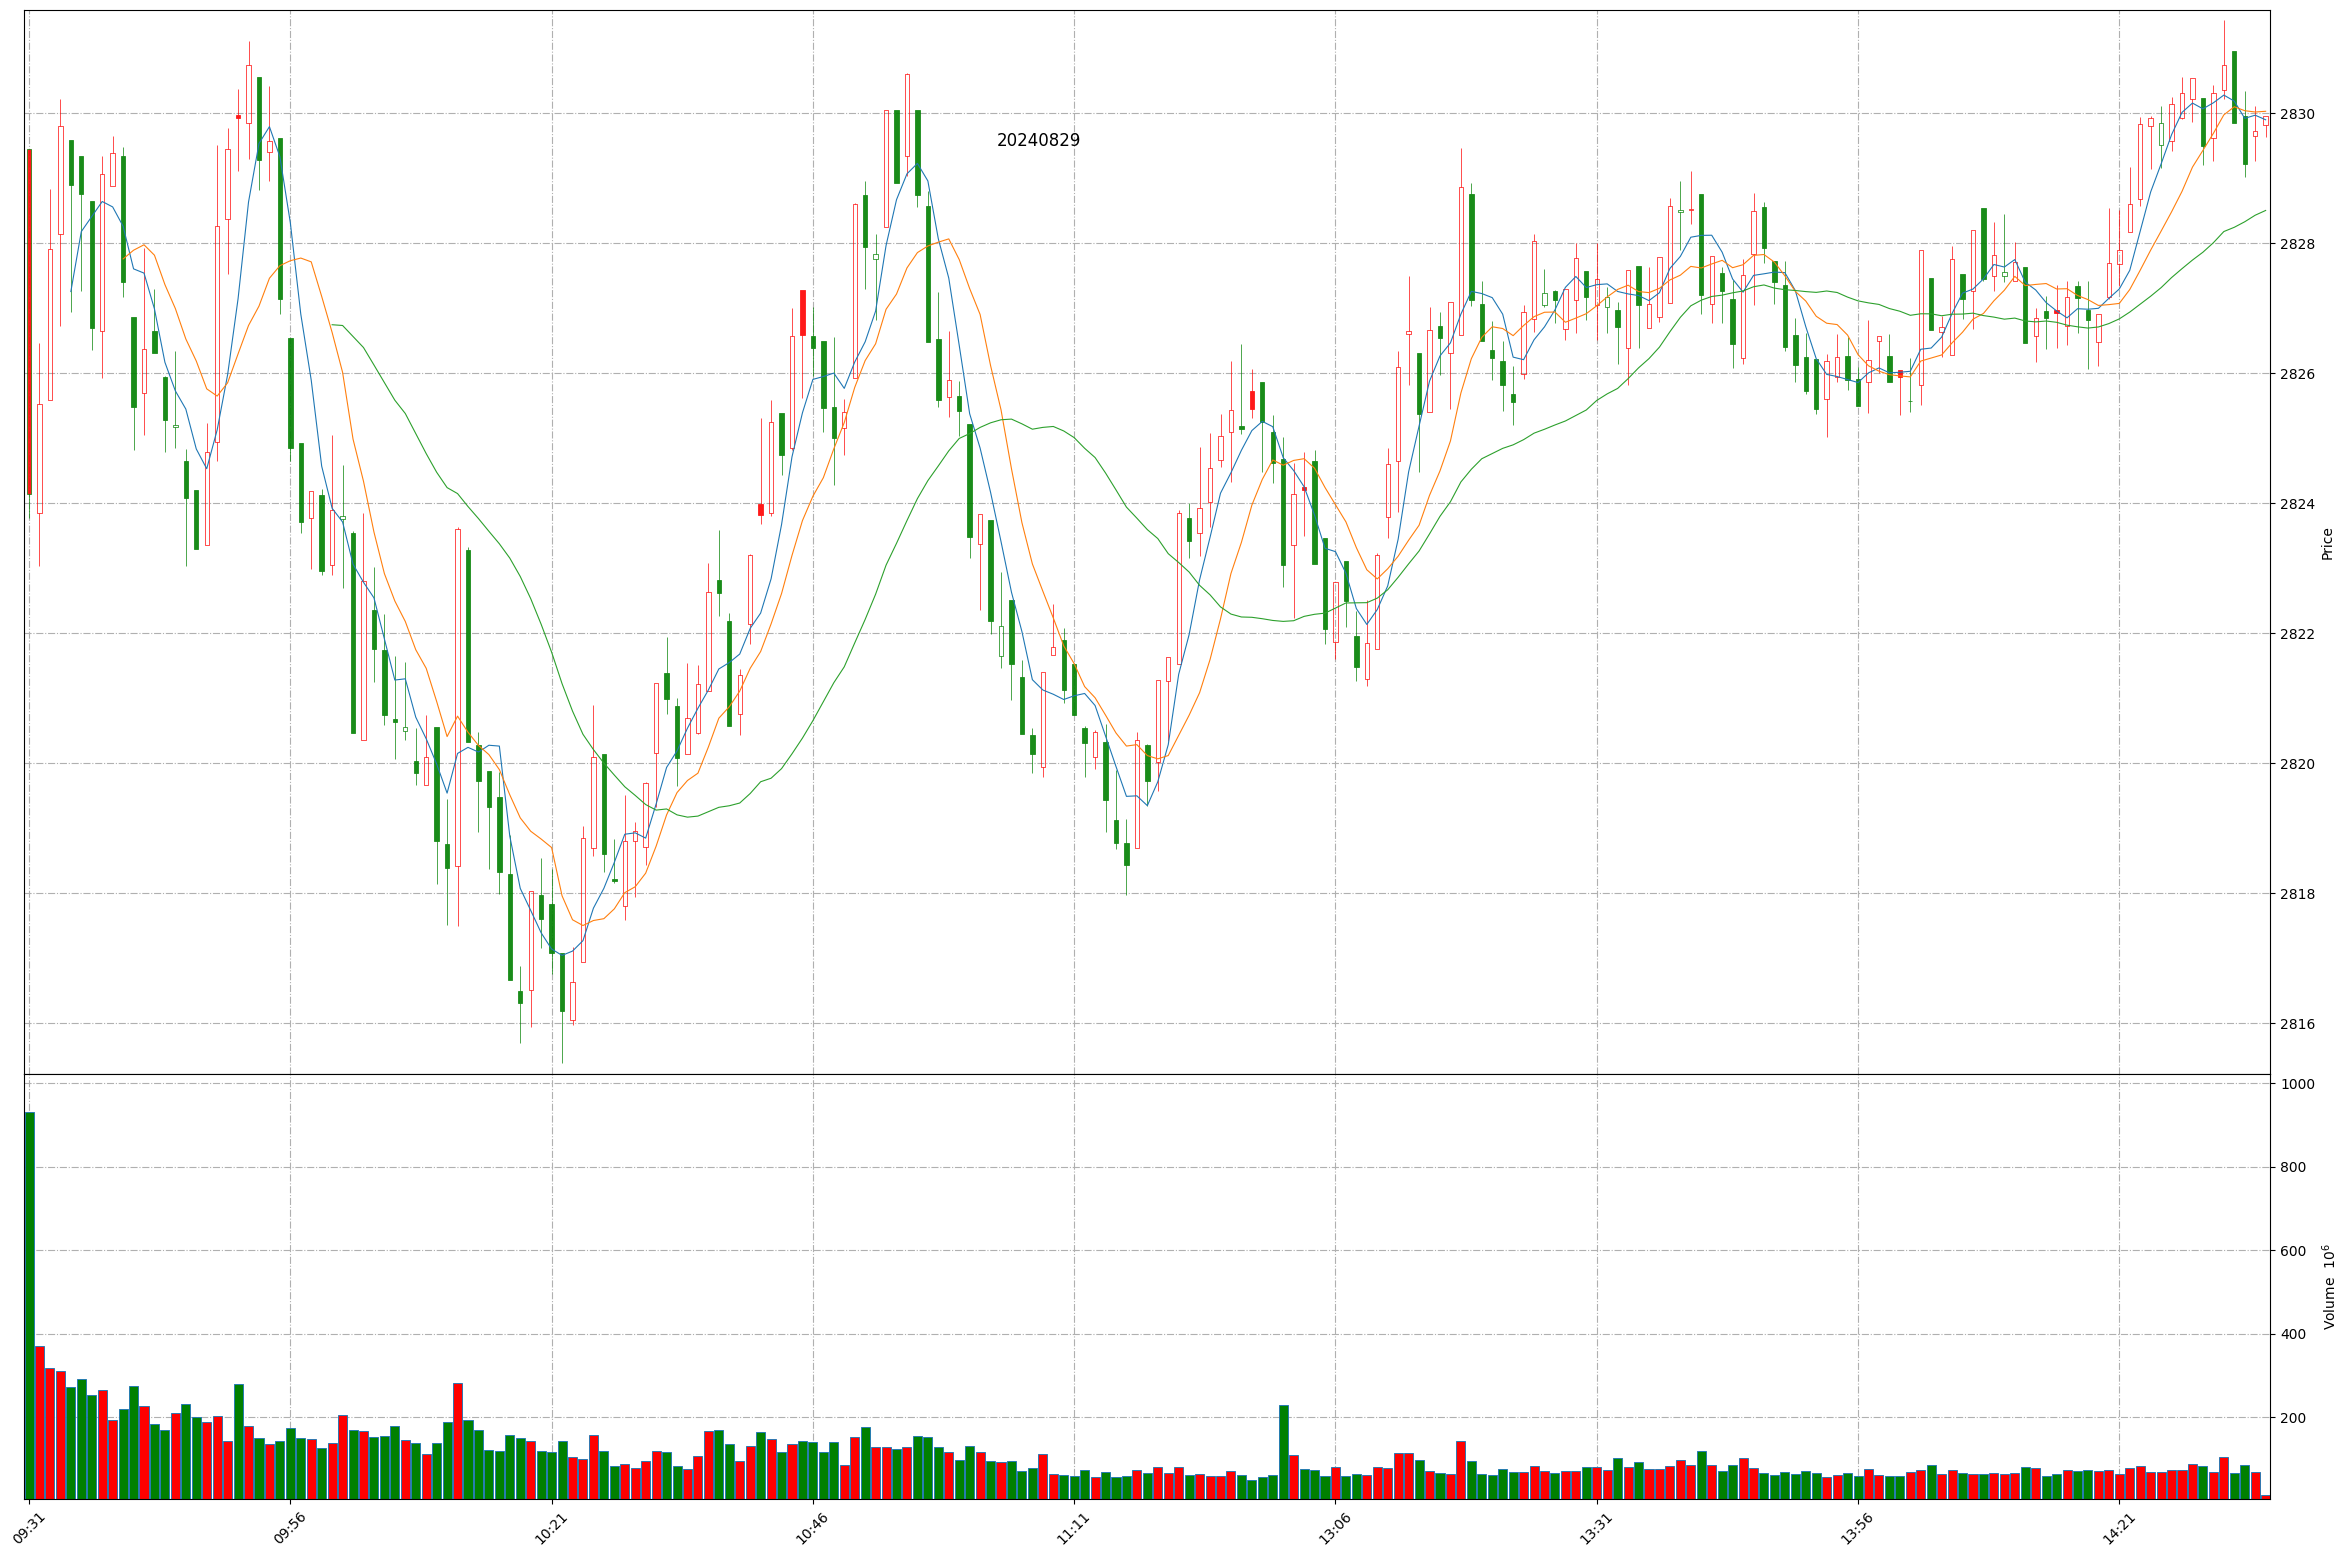
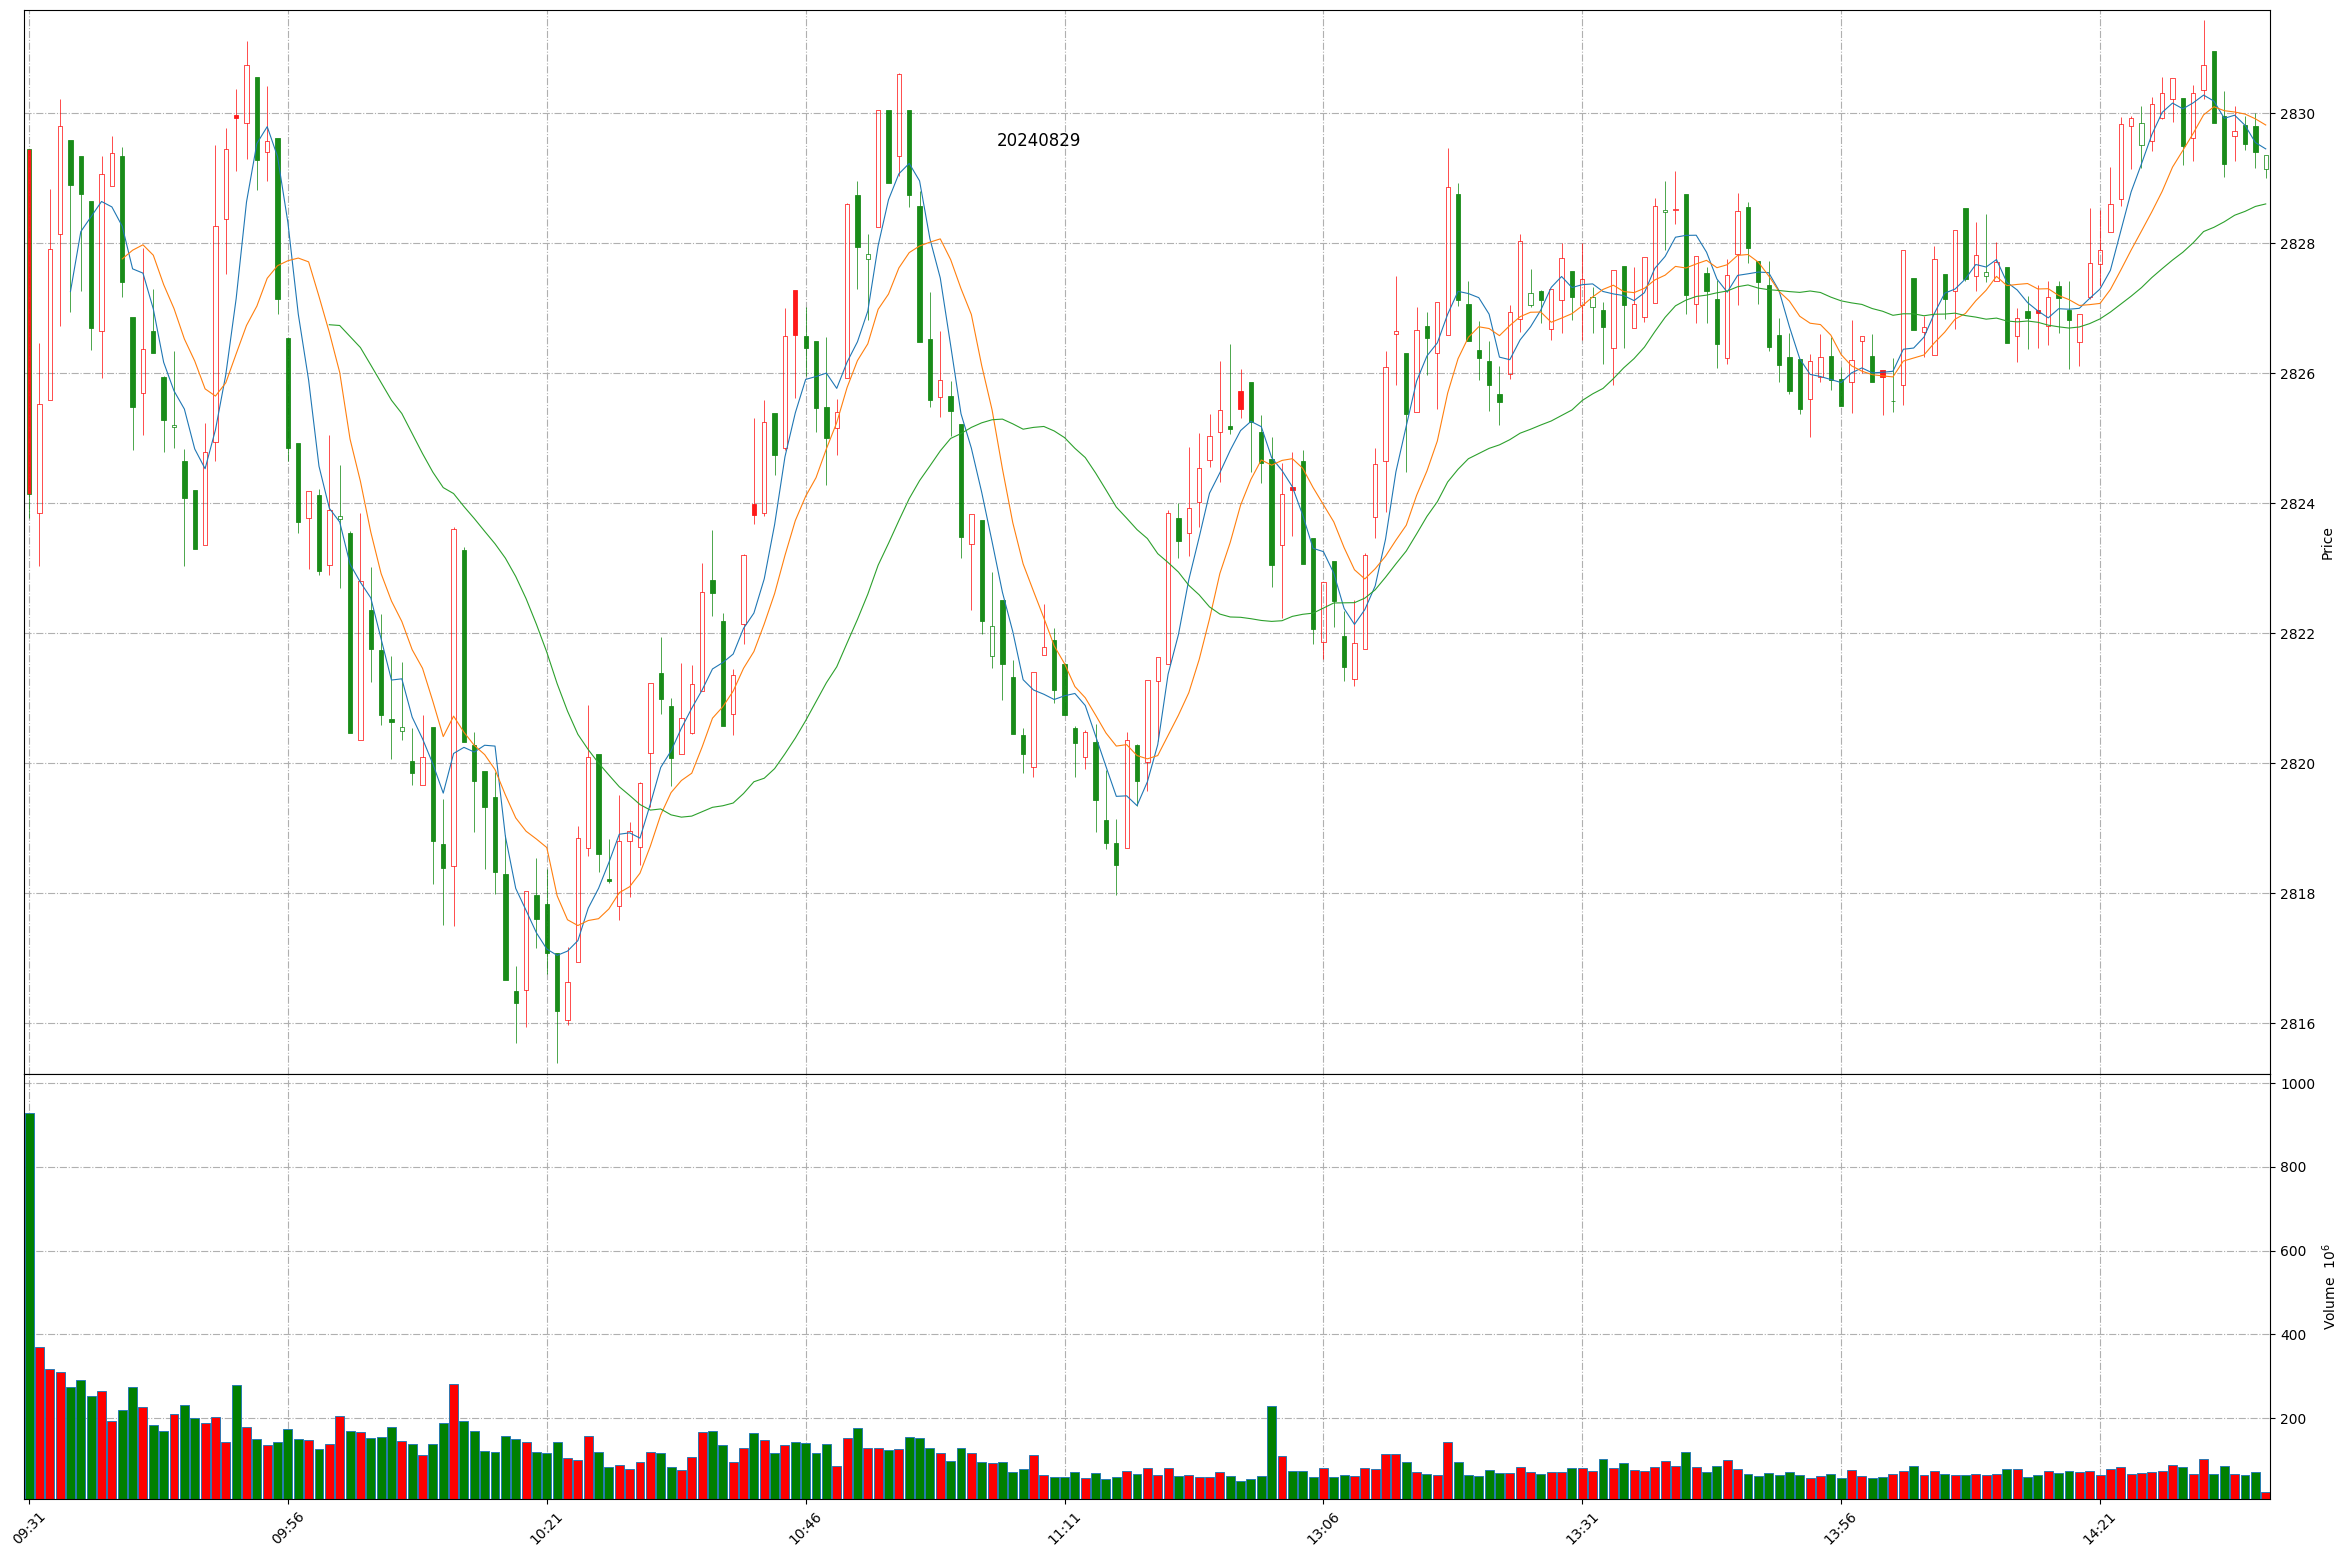
Github action update at 2024-08-29 14:36:36.

diff --git a/README.md b/README.md
@@ -1,11 +1,11 @@
 
 # Daily-A-share-market-quotes 每日 A 股指数（5min 更新）- 20240829
 
-### 上证指数 20240829 14:34
+### 上证指数 20240829 14:36
 ![](./fig/2024/8/20240829-sh000001.png)
 
-### 深证成指 20240829 14:34
+### 深证成指 20240829 14:36
 ![](./fig/2024/8/20240829-sz399001.png)
 
-### 北证50 20240829 14:34
+### 北证50 20240829 14:36
 ![](./fig/2024/8/20240829-bj899050.png)
